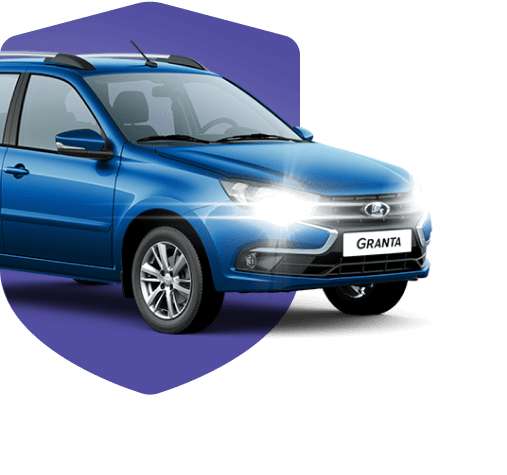
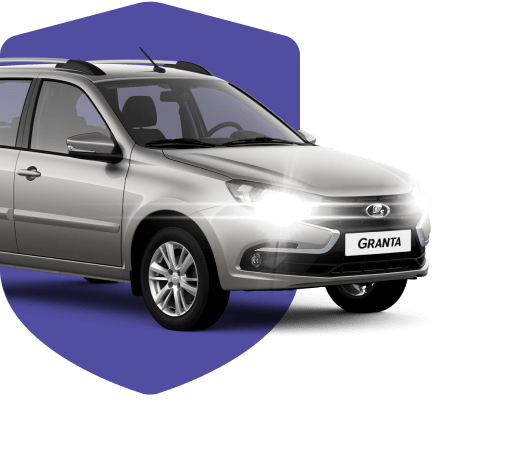
Добавил кузовы к блоку тект-драйва и гарантии
#models

diff --git a/components/elements/TestDriveBanner.vue b/components/elements/TestDriveBanner.vue
@@ -3,7 +3,7 @@
     <section class="test-drive-banner">
       <div class="container test-drive-banner__container">
         <div class="test-drive-banner__wrapper">
-          <img src="~static/images/credit-section/granta/drive_active/photo_mobile.png" alt="" class="test-drive-banner__pic">
+          <img :src="path.mobile" :alt="path.title" class="test-drive-banner__pic">
 
           <div class="test-drive-banner__text">
             <h2>Испытай новую LADA Granta в деле!</h2>
@@ -45,6 +45,31 @@ export default {
       form_title: "",
       form_type: 1,
       goal: "",
+      path: {},
+      images: {
+        granta: {
+          'drive-active': {
+            title: 'Granta Drive Active',
+            mobile: '/images/credit-section/granta/drive_active/photo_mobile.png',
+          },
+          sedan: {
+            title: 'Granta Седан',
+            mobile: '/images/credit-section/granta/sedan/photo_mobile.png',
+          },
+          liftback: {
+            title: 'Granta Лифтбек',
+            mobile: '/images/credit-section/granta/liftback/photo_mobile.png',
+          },
+          hatchback: {
+            title: 'Granta Хэтчбэк',
+            mobile: '/images/credit-section/granta/hatchback/photo_mobile.png',
+          },
+          universal: {
+            title: 'Granta Хэтчбэк',
+            mobile: '/images/credit-section/granta/universal/photo_mobile.png',
+          },
+        }
+      },
     }
   },
 
@@ -64,6 +89,9 @@ export default {
     hide() {
       this.$modal.hide("form-callback3");
     },
+  },
+  created() {
+    this.path = this.images[this.$route.params.models][this.$route.params.model]
   }
 }
 </script>
